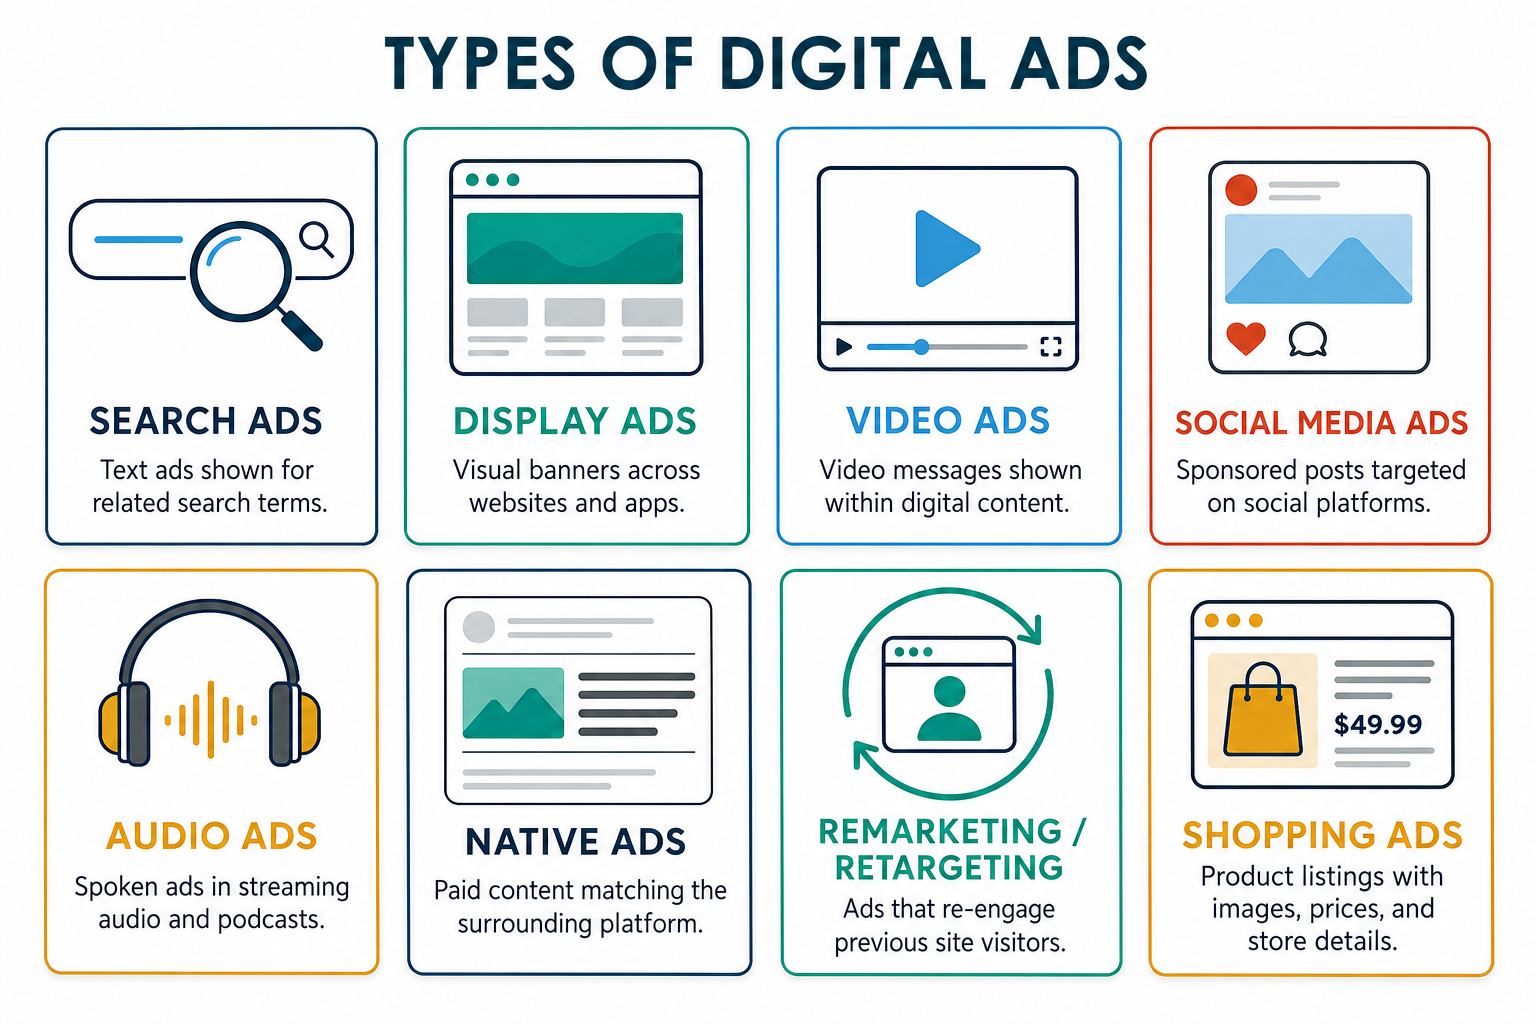
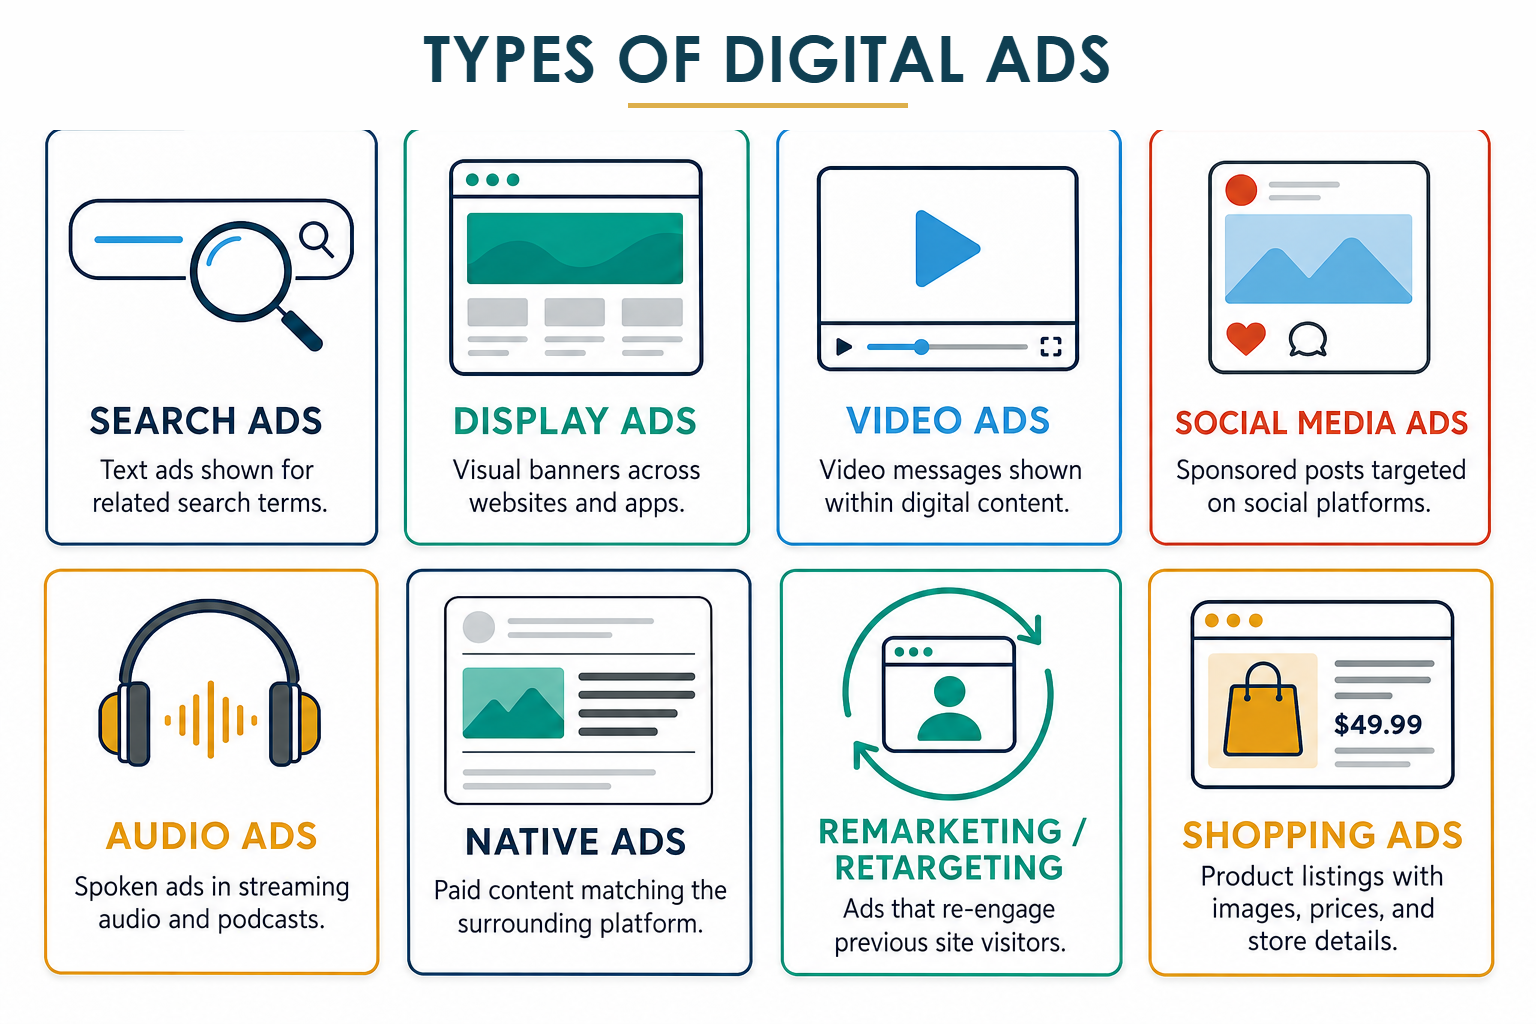
Standardize Week 5 illustration titles

Changed region(s): [[0.25, 0.0312, 0.75, 0.125]]

diff --git a/Week 5/Week 5 Section 3 The Anatomy of a Search Campaign.html b/Week 5/Week 5 Section 3 The Anatomy of a Search Campaign.html
@@ -21,7 +21,7 @@ h1,h2,h3,p,li{overflow-wrap:anywhere}
 @media(max-width:700px){.section-iframe{min-height:620px}.iframe-growth{height:780px!important}.iframe-scenario{height:1220px!important}.iframe-metrics{height:1320px!important}.iframe-parts{height:1240px!important}.iframe-structure{height:1420px!important}.iframe-landing{height:1260px!important}.iframe-builder{height:1760px!important}.iframe-manual{height:1840px!important}}
 @media(max-width:500px){.iframe-growth{height:860px!important}.iframe-scenario{height:1420px!important}.iframe-metrics{height:1580px!important}.iframe-parts{height:1480px!important}.iframe-structure{height:1680px!important}.iframe-landing{height:1480px!important}.iframe-builder{height:2060px!important}.iframe-manual{height:2140px!important}}
 </style>
-<body style="color:rgb(32,33,34);font-family:verdana,sans-serif;font-size:12px"><main class="course-page"><header class="course-header"><div class="inner"><p class="week-label" style="margin:0 0 6px;color:#ddaf4b;font-family:'Century Gothic','Aptos Display','Segoe UI',Arial,sans-serif;font-size:20px;font-weight:700;letter-spacing:.08em;line-height:1.08;text-transform:uppercase">Section 3</p><h1>The Anatomy of a Search Campaign</h1></div></header><section class="course-content"><aside class="takeaways"><h2>Key Takeaways</h2><ul><li>A search campaign contains one or more ad groups organized around closely related search themes.</li><li>Each ad group aligns a focused keyword list with at least one relevant ad and landing-page intent.</li></ul></aside><p class="full-link"><a href="https://kindawilson.github.io/digitalmarketing/Week%205/Week%205%20Section%203%20The%20Anatomy%20of%20a%20Search%20Campaign.html" target="_blank" rel="noopener noreferrer">Open this lesson in full screen</a></p><article class="content-card"><p>As mentioned previously, the search ad is widely applicable and the most widely used. We’re going to take a focused look at creating a search ad campaign over the next couple of sections. You want to make sure that you have not only a handle on it, but some experience in trying it out.</p><p>Let’s start with the basics of what a search ad looks like and the different pieces of it. This will be important because we will be strategically building all of these pieces soon.</p><p>In a search campaign, we “bid” on certain keywords against other competitors. When our customer searches for that keyword, then our search ad appears, usually above the organic search results. It’s common for a marketer to be charged each time the customer clicks on the ad, known as “Pay Per Click”.</p><p>An example of an ad and its pieces are below.</p><figure><img src="https://kindawilson.github.io/digitalmarketing/Week%205/anatomy-of-a-search-ad-seven-parts.png" alt="Anatomy of a search ad with seven labeled parts"></figure><p>Click through each item below in the interaction to see best practices for each of the core parts of a search ad.</p><iframe class="section-iframe iframe-parts" src="./core-parts-of-a-search-ad-interactive-standalone-iframe.html?v=5" title="Interactive anatomy of the core parts of a search ad" width="100%" loading="lazy" scrolling="no" allow="fullscreen" style="display:block;width:100%;margin:20px 0 22px;border:0;"></iframe><p>You’ll also want to know a few key terms in a search ad campaign. First of all, you will have a campaign goal such as sales, leads, or website traffic (some of those metrics we mentioned earlier).</p><p>The ad campaign itself contains one or more ad groups. An ad group organizes one closely related search theme. It keeps the keywords, ad message, and landing-page intent aligned. Each ad group contains a keyword list and at least one related ad. This is the part that can sound a little confusing at first, but it starts to make sense as you see the structure and understand its purpose. The point of marketing is to know our buyer persona(s) and to structure our keyword searches and ads around their needs. It makes sense that we should be able to strategically group keywords with their related ads and landing pages.</p><figure><img src="https://kindawilson.github.io/digitalmarketing/Week%205/search-campaign-ad%20groups%20taller-branded.png" alt="Diagram showing a search campaign containing multiple ad groups, keyword lists, and ads"></figure><p>To fully understand the structure, click through the pieces of a search ad campaign below to see tips and examples for each.</p><iframe class="section-iframe iframe-structure" src="./ad-campaign-structure-interactive-standalone-iframe.html?v=5" title="Interactive map of a search advertising campaign structure" width="100%" loading="lazy" scrolling="no" allow="fullscreen" style="display:block;width:100%;margin:20px 0 22px;border:0;"></iframe><p>Before starting to create an ad campaign, don’t forget the basics of knowing your target market and their search habits. By now you should have already done a deep dive into the relevant keyword searches for your product/service. We’ll be using some of these keywords again in the next section to build ads.</p></article></section></main><footer class="footer mceNonEditable" style="border-top: 7px solid #ddaf4b; margin-top: 28px; padding: 30px 24px; background: #4d5259; color: #ffffff; text-align: center;"><div class="footer-inner" style="width: min(100%,1400px); margin: 0 auto; font-size: 14px;"><img src="https://kindawilson.github.io/digitalmarketing/Week%203/Dimensional_V_White_Lockup.png" alt="Vanderbilt University" style="display:block;max-width:260px;width:100%;height:auto;margin:0 auto;"></div></footer>
+<body style="color:rgb(32,33,34);font-family:verdana,sans-serif;font-size:12px"><main class="course-page"><header class="course-header"><div class="inner"><p class="week-label" style="margin:0 0 6px;color:#ddaf4b;font-family:'Century Gothic','Aptos Display','Segoe UI',Arial,sans-serif;font-size:20px;font-weight:700;letter-spacing:.08em;line-height:1.08;text-transform:uppercase">Section 3</p><h1>The Anatomy of a Search Campaign</h1></div></header><section class="course-content"><aside class="takeaways"><h2>Key Takeaways</h2><ul><li>A search campaign contains one or more ad groups organized around closely related search themes.</li><li>Each ad group aligns a focused keyword list with at least one relevant ad and landing-page intent.</li></ul></aside><p class="full-link"><a href="https://kindawilson.github.io/digitalmarketing/Week%205/Week%205%20Section%203%20The%20Anatomy%20of%20a%20Search%20Campaign.html" target="_blank" rel="noopener noreferrer">Open this lesson in full screen</a></p><article class="content-card"><p>As mentioned previously, the search ad is widely applicable and the most widely used. We’re going to take a focused look at creating a search ad campaign over the next couple of sections. You want to make sure that you have not only a handle on it, but some experience in trying it out.</p><p>Let’s start with the basics of what a search ad looks like and the different pieces of it. This will be important because we will be strategically building all of these pieces soon.</p><p>In a search campaign, we “bid” on certain keywords against other competitors. When our customer searches for that keyword, then our search ad appears, usually above the organic search results. It’s common for a marketer to be charged each time the customer clicks on the ad, known as “Pay Per Click”.</p><p>An example of an ad and its pieces are below.</p><figure><img src="https://kindawilson.github.io/digitalmarketing/Week%205/anatomy-of-a-search-ad-seven-parts.png" alt="Anatomy of a search ad with seven labeled parts"></figure><p>Click through each item below in the interaction to see best practices for each of the core parts of a search ad.</p><iframe class="section-iframe iframe-parts" src="./core-parts-of-a-search-ad-interactive-standalone-iframe.html?v=5" title="Interactive anatomy of the core parts of a search ad" width="100%" loading="lazy" scrolling="no" allow="fullscreen" style="display:block;width:100%;margin:20px 0 22px;border:0;"></iframe><p>You’ll also want to know a few key terms in a search ad campaign. First of all, you will have a campaign goal such as sales, leads, or website traffic (some of those metrics we mentioned earlier).</p><p>The ad campaign itself contains one or more ad groups. An ad group organizes one closely related search theme. It keeps the keywords, ad message, and landing-page intent aligned. Each ad group contains a keyword list and at least one related ad. This is the part that can sound a little confusing at first, but it starts to make sense as you see the structure and understand its purpose. The point of marketing is to know our buyer persona(s) and to structure our keyword searches and ads around their needs. It makes sense that we should be able to strategically group keywords with their related ads and landing pages.</p><figure><img src="https://kindawilson.github.io/digitalmarketing/Week%205/search-campaign-ad%20groups%20taller-branded.png?v=2" alt="Diagram showing a search campaign containing multiple ad groups, keyword lists, and ads"></figure><p>To fully understand the structure, click through the pieces of a search ad campaign below to see tips and examples for each.</p><iframe class="section-iframe iframe-structure" src="./ad-campaign-structure-interactive-standalone-iframe.html?v=5" title="Interactive map of a search advertising campaign structure" width="100%" loading="lazy" scrolling="no" allow="fullscreen" style="display:block;width:100%;margin:20px 0 22px;border:0;"></iframe><p>Before starting to create an ad campaign, don’t forget the basics of knowing your target market and their search habits. By now you should have already done a deep dive into the relevant keyword searches for your product/service. We’ll be using some of these keywords again in the next section to build ads.</p></article></section></main><footer class="footer mceNonEditable" style="border-top: 7px solid #ddaf4b; margin-top: 28px; padding: 30px 24px; background: #4d5259; color: #ffffff; text-align: center;"><div class="footer-inner" style="width: min(100%,1400px); margin: 0 auto; font-size: 14px;"><img src="https://kindawilson.github.io/digitalmarketing/Week%203/Dimensional_V_White_Lockup.png" alt="Vanderbilt University" style="display:block;max-width:260px;width:100%;height:auto;margin:0 auto;"></div></footer>
 <script>
 (function(){
   function resizeFrames(){document.querySelectorAll('iframe.section-iframe').forEach(function(frame){try{frame.contentWindow.postMessage({type:'vanderbilt-request-height'},'*')}catch(e){}})}

diff --git a/Week 5/Week 5 Section 4 Aligning the Search Experience.html b/Week 5/Week 5 Section 4 Aligning the Search Experience.html
@@ -22,7 +22,7 @@ h1,h2,h3,p,li{overflow-wrap:anywhere}
 @media(max-width:700px){.section-iframe{min-height:620px}.iframe-growth{height:780px!important}.iframe-scenario{height:1220px!important}.iframe-metrics{height:1320px!important}.iframe-parts{height:1240px!important}.iframe-structure{height:1420px!important}.iframe-landing{height:1260px!important}.iframe-builder{height:1760px!important}.iframe-manual{height:1840px!important}}
 @media(max-width:500px){.iframe-growth{height:860px!important}.iframe-scenario{height:1420px!important}.iframe-metrics{height:1580px!important}.iframe-parts{height:1480px!important}.iframe-structure{height:1680px!important}.iframe-landing{height:1480px!important}.iframe-builder{height:2060px!important}.iframe-manual{height:2140px!important}}
 </style>
-<body style="color:rgb(32,33,34);font-family:verdana,sans-serif;font-size:12px"><main class="course-page"><header class="course-header"><div class="inner"><p class="week-label" style="margin:0 0 6px;color:#ddaf4b;font-family:'Century Gothic','Aptos Display','Segoe UI',Arial,sans-serif;font-size:20px;font-weight:700;letter-spacing:.08em;line-height:1.08;text-transform:uppercase">Section 4</p><h1>Aligning the Search Experience</h1></div></header><section class="course-content"><aside class="takeaways"><h2>Key Takeaways</h2><ul><li>The buyer persona, keyword list, search ad, and landing page should communicate one cohesive offer.</li><li>Relevance and alignment can improve the customer experience and influence advertising performance.</li></ul></aside><p class="full-link"><a href="https://kindawilson.github.io/digitalmarketing/Week%205/Week%205%20Section%204%20Aligning%20the%20Search%20Experience.html" target="_blank" rel="noopener noreferrer">Open this lesson in full screen</a></p><article class="content-card"><p>When you’re creating a search campaign, the first thing you need to know is that all the pieces of the campaign need to be cohesive. The keyword list, the ad, and the landing page all need to be aligned. Not only does it make sense strategically, but Google takes into account how aligned they are when deciding which ad to prioritize (yours or your competitors’)!</p><p>For example, we mentioned Pay Per Click earlier. If you put a maximum bid of $1 for a certain keyword, and your competitor bids $1.20…..but your ad is more relevant and aligned, then Google might put your ad in a higher position on the page than your competitor. The takeaway is: align the search experience.</p><figure><img src="https://kindawilson.github.io/digitalmarketing/Week%205/search-experience-alignment-illustration.png" alt="Illustration showing alignment between a keyword list, search ad, and landing page"></figure><p>As you’re beginning to create your campaign, you’ll compile those focused keyword lists. You’ll want to look for relevant keywords to your persona, ideally that have higher search volume, lower competition, and lower average cost per click. You can also look at the purchase intent of the keywords and align it to the purpose of the campaign.</p><p>For instance, in the illustration below, we’re running an ad for a bicycle tune-up, so we’re looking at keywords that have high purchase intent (on SEMRush, we saw this as commercial/transactional versus just informational). It’s a consumer that’s further down the funnel.</p><figure><img src="https://kindawilson.github.io/digitalmarketing/Week%205/buyer-persona-focused-keyword-list-branded-refined-illustrated.png?v=2" alt="Illustration connecting a bicycle commuter buyer persona with a focused keyword list"></figure><p>You’ll create the focused keyword lists, and then also build the matching search ad, choosing the most strategic elements. Go through the pieces of the interactive search ad below to find strategies for each element.</p><iframe class="section-iframe iframe-parts" src="./core-parts-of-a-search-ad-interactive-standalone-iframe.html?v=5" title="Interactive strategies for the parts of a search ad" width="100%" loading="lazy" scrolling="no" allow="fullscreen" style="display:block;width:100%;margin:20px 0 22px;border:0;"></iframe><p>Next, you’ll want to build a landing page that aligns with the keyword list and ad(s) you just built. If the landing page is a shopping page, then it should have the product or service and details/attributes that matches the ad that your customer just clicked on. It should also have a clear call to action and exhibit those design principles we’ve covered. Again, all the pieces in a search campaign should align.</p><iframe class="section-iframe iframe-landing" src="./bike-tune-up-aligned-landing-page-interactive-standalone-iframe.html?v=5" title="Interactive example of an aligned bicycle tune-up landing page" width="100%" loading="lazy" scrolling="no" allow="fullscreen" style="display:block;width:100%;margin:20px 0 22px;border:0;"></iframe></article></section></main><footer class="footer mceNonEditable" style="border-top: 7px solid #ddaf4b; margin-top: 28px; padding: 30px 24px; background: #4d5259; color: #ffffff; text-align: center;"><div class="footer-inner" style="width: min(100%,1400px); margin: 0 auto; font-size: 14px;"><img src="https://kindawilson.github.io/digitalmarketing/Week%203/Dimensional_V_White_Lockup.png" alt="Vanderbilt University" style="display:block;max-width:260px;width:100%;height:auto;margin:0 auto;"></div></footer>
+<body style="color:rgb(32,33,34);font-family:verdana,sans-serif;font-size:12px"><main class="course-page"><header class="course-header"><div class="inner"><p class="week-label" style="margin:0 0 6px;color:#ddaf4b;font-family:'Century Gothic','Aptos Display','Segoe UI',Arial,sans-serif;font-size:20px;font-weight:700;letter-spacing:.08em;line-height:1.08;text-transform:uppercase">Section 4</p><h1>Aligning the Search Experience</h1></div></header><section class="course-content"><aside class="takeaways"><h2>Key Takeaways</h2><ul><li>The buyer persona, keyword list, search ad, and landing page should communicate one cohesive offer.</li><li>Relevance and alignment can improve the customer experience and influence advertising performance.</li></ul></aside><p class="full-link"><a href="https://kindawilson.github.io/digitalmarketing/Week%205/Week%205%20Section%204%20Aligning%20the%20Search%20Experience.html" target="_blank" rel="noopener noreferrer">Open this lesson in full screen</a></p><article class="content-card"><p>When you’re creating a search campaign, the first thing you need to know is that all the pieces of the campaign need to be cohesive. The keyword list, the ad, and the landing page all need to be aligned. Not only does it make sense strategically, but Google takes into account how aligned they are when deciding which ad to prioritize (yours or your competitors’)!</p><p>For example, we mentioned Pay Per Click earlier. If you put a maximum bid of $1 for a certain keyword, and your competitor bids $1.20…..but your ad is more relevant and aligned, then Google might put your ad in a higher position on the page than your competitor. The takeaway is: align the search experience.</p><figure><img src="https://kindawilson.github.io/digitalmarketing/Week%205/search-experience-alignment-illustration.png?v=3" alt="Illustration showing alignment between a keyword list, search ad, and landing page"></figure><p>As you’re beginning to create your campaign, you’ll compile those focused keyword lists. You’ll want to look for relevant keywords to your persona, ideally that have higher search volume, lower competition, and lower average cost per click. You can also look at the purchase intent of the keywords and align it to the purpose of the campaign.</p><p>For instance, in the illustration below, we’re running an ad for a bicycle tune-up, so we’re looking at keywords that have high purchase intent (on SEMRush, we saw this as commercial/transactional versus just informational). It’s a consumer that’s further down the funnel.</p><figure><img src="https://kindawilson.github.io/digitalmarketing/Week%205/buyer-persona-focused-keyword-list-branded-refined-illustrated.png?v=3" alt="Illustration connecting a bicycle commuter buyer persona with a focused keyword list"></figure><p>You’ll create the focused keyword lists, and then also build the matching search ad, choosing the most strategic elements. Go through the pieces of the interactive search ad below to find strategies for each element.</p><iframe class="section-iframe iframe-parts" src="./core-parts-of-a-search-ad-interactive-standalone-iframe.html?v=5" title="Interactive strategies for the parts of a search ad" width="100%" loading="lazy" scrolling="no" allow="fullscreen" style="display:block;width:100%;margin:20px 0 22px;border:0;"></iframe><p>Next, you’ll want to build a landing page that aligns with the keyword list and ad(s) you just built. If the landing page is a shopping page, then it should have the product or service and details/attributes that matches the ad that your customer just clicked on. It should also have a clear call to action and exhibit those design principles we’ve covered. Again, all the pieces in a search campaign should align.</p><iframe class="section-iframe iframe-landing" src="./bike-tune-up-aligned-landing-page-interactive-standalone-iframe.html?v=5" title="Interactive example of an aligned bicycle tune-up landing page" width="100%" loading="lazy" scrolling="no" allow="fullscreen" style="display:block;width:100%;margin:20px 0 22px;border:0;"></iframe></article></section></main><footer class="footer mceNonEditable" style="border-top: 7px solid #ddaf4b; margin-top: 28px; padding: 30px 24px; background: #4d5259; color: #ffffff; text-align: center;"><div class="footer-inner" style="width: min(100%,1400px); margin: 0 auto; font-size: 14px;"><img src="https://kindawilson.github.io/digitalmarketing/Week%203/Dimensional_V_White_Lockup.png" alt="Vanderbilt University" style="display:block;max-width:260px;width:100%;height:auto;margin:0 auto;"></div></footer>
 <script>
 (function(){
   function resizeFrames(){document.querySelectorAll('iframe.section-iframe').forEach(function(frame){try{frame.contentWindow.postMessage({type:'vanderbilt-request-height'},'*')}catch(e){}})}

diff --git a/Week 5/Week 5 Section 1 Types of Ads.html b/Week 5/Week 5 Section 1 Types of Ads.html
@@ -55,7 +55,7 @@ h1,h2,h3,p,li{overflow-wrap:anywhere}
 <p>You can see how the category of digital ads has risen to being a major part of a marketer’s playbook. Within digital ads, there are sub-categories as well. Let’s cover a few of the types of ads you’ll find. (As a side note, you’ll find that different sources classify a few of these differently or break them out into further types of ads.)</p>
 <h2>Overview of Ad Types</h2>
 <figure>
-<img src="types-of-digital-ads-eight-formats-infographic.png" alt="Eight types of digital ads: search, display, video, social media, audio, native, remarketing or retargeting, and shopping ads">
+<img src="types-of-digital-ads-eight-formats-infographic.png?v=3" alt="Eight types of digital ads: search, display, video, social media, audio, native, remarketing or retargeting, and shopping ads">
 </figure>
 <div class="label-list">
 <p>
